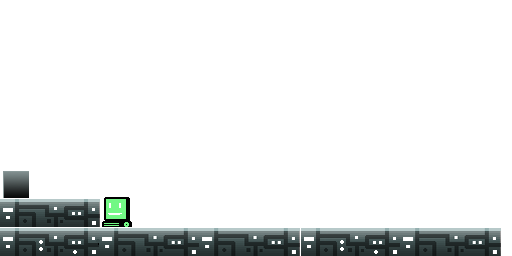
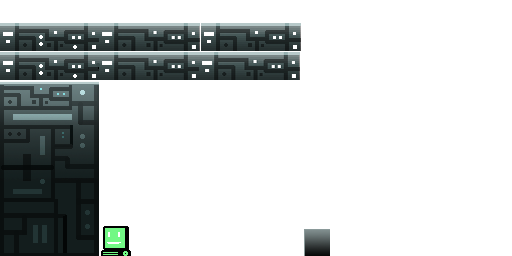
Created Enemy class for Enemy characters. Implemented camera changing over to next screen.

diff --git a/Unity/Assets/Scenes/GameScene/GameCamera.cs b/Unity/Assets/Scenes/GameScene/GameCamera.cs
@@ -1,0 +1,41 @@
+using UnityEngine;
+using System.Collections;
+
+public class GameCamera : MonoBehaviour
+{
+	public Camera gameCamera;
+	public TweenPosition cameraTween;
+	public BoxCollider boxCollider;
+	
+	private float levelScreenWidth;
+	
+	private void Start()
+	{
+		levelScreenWidth = (float)Screen.width / (float)Screen.height * gameCamera.orthographicSize * 2f;
+		Vector3 camPosition = transform.localPosition;
+		camPosition.x = levelScreenWidth * 0.5f;
+		camPosition.y = gameCamera.orthographicSize;
+		transform.localPosition = camPosition;
+		
+		Vector3 size = boxCollider.size;
+		size.x = levelScreenWidth;
+		size.y = gameCamera.orthographicSize * 2f;
+		size.z = gameCamera.farClipPlane - gameCamera.nearClipPlane;
+		boxCollider.size = size;
+	}
+	
+	public void NextScreen()
+	{
+		Vector3 camPosition = transform.localPosition;
+		cameraTween.from = camPosition;
+		camPosition.x += levelScreenWidth;
+		cameraTween.to = camPosition;
+		cameraTween.Reset();
+		cameraTween.Play(true);
+	}
+	
+	private void CameraTweenFinished(UITweener tween)
+	{
+		
+	}
+}

diff --git a/Unity/Assets/Scenes/GameScene/Character/Player.cs b/Unity/Assets/Scenes/GameScene/Character/Player.cs
@@ -22,6 +22,8 @@ public class Player : Character
 	{
 		base.Start();
 		
+		GameRoot.current.players.Add(this);
+		
 		input.OnAPress += OnAPress;
 	}
 	
@@ -81,8 +83,10 @@ public class Player : Character
 	
 	#region Interaction
 	
-	private void OnTriggerEnter(Collider other)
+	protected override void OnTriggerEnter(Collider other)
 	{
+		base.OnTriggerEnter(other);
+		
 		LevelInteractive interactive = other.gameObject.GetComponent<LevelInteractive>();
 		if (interactive != null)
 		{
@@ -91,8 +95,10 @@ public class Player : Character
 		}
 	}
 	
-	private void OnTriggerExit(Collider other)
+	protected override void OnTriggerExit(Collider other)
 	{
+		base.OnTriggerExit(other);
+		
 		LevelInteractive interactive = other.gameObject.GetComponent<LevelInteractive>();
 		if (interactive != null)
 		{

diff --git a/Unity/Assets/Scenes/GameScene/Character/Character.cs b/Unity/Assets/Scenes/GameScene/Character/Character.cs
@@ -26,6 +26,8 @@ public class Character : MonoBehaviour
 	protected bool isBlockedOnLeft;
 	protected BetterList<GameObject> leftBlockingObjects = new BetterList<GameObject>();
 	
+	protected bool isOnCamera;
+	
 	#endregion
 	
 	#region Animation Info
@@ -161,6 +163,22 @@ public class Character : MonoBehaviour
 				isGrounded = false;
 				currentPlatform = null;
 			}
+		}
+	}
+	
+	protected virtual void OnTriggerEnter(Collider other)
+	{
+		if (other.gameObject == GameRoot.current.gameCamera.gameObject)
+		{
+			isOnCamera = true;
+		}
+	}
+	
+	protected virtual void OnTriggerExit(Collider other)
+	{
+		if (other.gameObject == GameRoot.current.gameCamera.gameObject)
+		{
+			isOnCamera = false;
 		}
 	}
 	

diff --git a/Unity/Assets/Scenes/GameScene/GameRoot.cs b/Unity/Assets/Scenes/GameScene/GameRoot.cs
@@ -3,6 +3,18 @@ using System.Collections;
 
 public class GameRoot : MonoBehaviour
 {
+	public static GameRoot current;
+	
+	public GameCamera gameCamera;
+	
+	public BetterList<Player> players = new BetterList<Player>();
+	public BetterList<Enemy> enemies = new BetterList<Enemy>();
+	
+	private void Awake()
+	{
+		current = this;
+	}
+	
 	private void Update()
 	{
 		if (Input.GetKeyDown(KeyCode.Escape))

diff --git a/Unity/Assets/Scenes/GameScene/Character/Enemy.cs b/Unity/Assets/Scenes/GameScene/Character/Enemy.cs
@@ -1,0 +1,12 @@
+using UnityEngine;
+using System.Collections;
+
+public class Enemy : Character
+{
+	protected override void Start()
+	{
+		base.Start();
+		
+		GameRoot.current.enemies.Add(this);
+	}
+}
